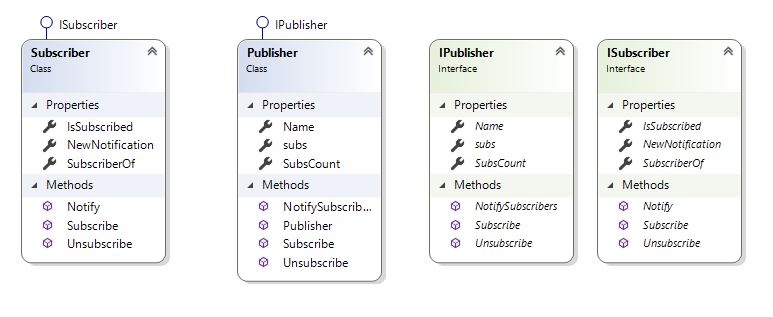
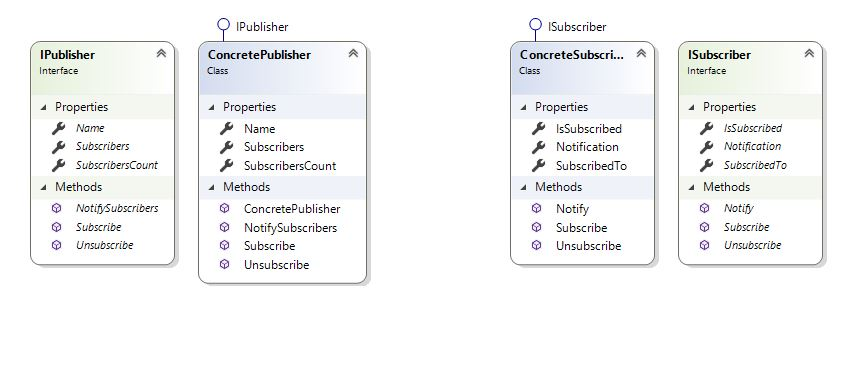
observer pattern refactored, readme added

Changed region(s): [[0.031, 0.0284, 0.4968, 0.9085], [0.5589, 0.0284, 0.9935, 0.8517]]

diff --git a/DesignPatterns/ObserverLibrary/UnitTests.cs b/DesignPatterns/ObserverLibrary/UnitTests.cs
@@ -1,29 +1,31 @@
 using NUnit.Framework;
+using ObserverLibrary.Publisher;
+using ObserverLibrary.Subscriber;
 
 namespace ObserverLibrary
 {
     [TestFixture]
-    class UnitTests
+    internal class UnitTests
     {
         [Test]
         public void SubscribeTest()
         {
-            IPublisher p = new Publisher("Kurier Nedeli");
-            ISubscriber s = new Subscriber();
+            IPublisher p = new ConcretePublisher("New York Times");
+            ISubscriber s = new ConcreteSubscriber();
             p.Subscribe(s);
-            Assert.That(p.SubsCount, Is.EqualTo(1));
+            Assert.That(p.SubscribersCount, Is.EqualTo(1));
             Assert.That(s.IsSubscribed, Is.EqualTo(true));
-            Assert.That(s.SubscriberOf, Is.EqualTo(p.Name));
+            Assert.That(s.SubscribedTo, Is.EqualTo(p.Name));
         }
-        
+
         [Test]
         public void NotifyTest()
         {
-            IPublisher p = new Publisher("Kurier Nedeli");
-            ISubscriber s = new Subscriber();
+            IPublisher p = new ConcretePublisher("New York Times");
+            ISubscriber s = new ConcreteSubscriber();
             p.Subscribe(s);
-            p.NotifySubscribers("New arrivals! Hurry to buy!");
-            Assert.That(s.NewNotification, Is.EqualTo("New arrivals! Hurry to buy!"));
+            p.NotifySubscribers("Economy grow is going on!!:)");
+            Assert.That(s.Notification, Is.EqualTo("Economy grow is going on!!:)"));
         }
     }
 }

diff --git a/DesignPatterns/ObserverLibrary/Publisher/ConcretePublisher.cs b/DesignPatterns/ObserverLibrary/Publisher/ConcretePublisher.cs
@@ -1,0 +1,46 @@
+using System.Collections.Generic;
+using ObserverLibrary.Subscriber;
+
+namespace ObserverLibrary.Publisher
+{
+    internal class ConcretePublisher : IPublisher
+    {
+        public List<ISubscriber> Subscribers { get; }
+
+        public int SubscribersCount => Subscribers.Count;
+
+        public string Name { get; }
+
+        public ConcretePublisher(string name)
+        {
+            Name = name;
+            Subscribers = new List<ISubscriber>();
+        }
+
+        public void NotifySubscribers(string notification)
+        {
+            foreach (var sub in Subscribers)
+            {
+                sub.Notify(notification);
+            }
+        }
+
+        public void Subscribe(ISubscriber subscriber)
+        {
+            Subscribers.Add(subscriber);
+            subscriber.Subscribe(Name);
+        }
+
+        public void Unsubscribe(ISubscriber subscriber)
+        {
+            if (Subscribers.Contains(subscriber))
+            {
+                int index = Subscribers.IndexOf(subscriber);
+                subscriber.Unsubscribe();
+                Subscribers.RemoveAt(index);
+            }
+
+            throw new SubscriberNotFoundException("There is no suc subscriber in the list");
+        }
+    }
+}

diff --git a/DesignPatterns/ObserverLibrary/Subscriber/ConcreteSubscriber.cs b/DesignPatterns/ObserverLibrary/Subscriber/ConcreteSubscriber.cs
@@ -1,0 +1,28 @@
+namespace ObserverLibrary.Subscriber
+{
+    internal class ConcreteSubscriber : ISubscriber
+    {
+        public bool IsSubscribed { get; private set; }
+
+        public string SubscribedTo { get; private set; }
+
+        public string Notification { get; private set; }
+
+        public void Notify(string notification)
+        {
+            Notification = notification;
+        }
+
+        public void Subscribe(string magazine)
+        {
+            SubscribedTo = magazine;
+            IsSubscribed = true;
+        }
+
+        public void Unsubscribe()
+        {
+            SubscribedTo = null;
+            IsSubscribed = false;
+        }
+    }
+}

diff --git a/DesignPatterns/ObserverLibrary/Publisher/IPublisher.cs b/DesignPatterns/ObserverLibrary/Publisher/IPublisher.cs
@@ -1,0 +1,16 @@
+using System.Collections.Generic;
+using ObserverLibrary.Subscriber;
+
+namespace ObserverLibrary.Publisher
+{
+    internal interface IPublisher
+    {
+        List<ISubscriber> Subscribers { get; }
+        int SubscribersCount { get; }
+        string Name { get; }
+        void Subscribe(ISubscriber subscriber);
+        void Unsubscribe(ISubscriber subscriber);
+        void NotifySubscribers(string notification);
+
+    }
+}

diff --git a/DesignPatterns/ObserverLibrary/Subscriber/ISubscriber.cs b/DesignPatterns/ObserverLibrary/Subscriber/ISubscriber.cs
@@ -1,0 +1,13 @@
+namespace ObserverLibrary.Subscriber
+{
+    internal interface ISubscriber
+    {
+        bool IsSubscribed { get; }
+        string SubscribedTo { get; }
+        string Notification { get; }
+
+        void Subscribe(string magazine);
+        void Unsubscribe();
+        void Notify(string notification);
+    }
+}

diff --git a/DesignPatterns/ObserverLibrary/Subscriber/SubscriberNotFoundException.cs b/DesignPatterns/ObserverLibrary/Subscriber/SubscriberNotFoundException.cs
@@ -1,0 +1,12 @@
+using System;
+
+namespace ObserverLibrary.Subscriber
+{
+    internal class SubscriberNotFoundException : Exception
+    {
+        public SubscriberNotFoundException(string message) : base(message)
+        {
+
+        }
+    }
+}

diff --git a/DesignPatterns/ObserverLibrary/README.md b/DesignPatterns/ObserverLibrary/README.md
@@ -1,0 +1,11 @@
+### Observer pattern
+
+Pattern which exposes the repation One-to-Many. One publisher and Many subscribers.
+
+### Observer Diagram
+
+![Decorator diagram](/DesignPatterns/ObserverLibrary/ObserverDiagram.JPG?raw=true )
+
+### Useful information
+
+https://metanit.com/sharp/patterns/3.2.php
